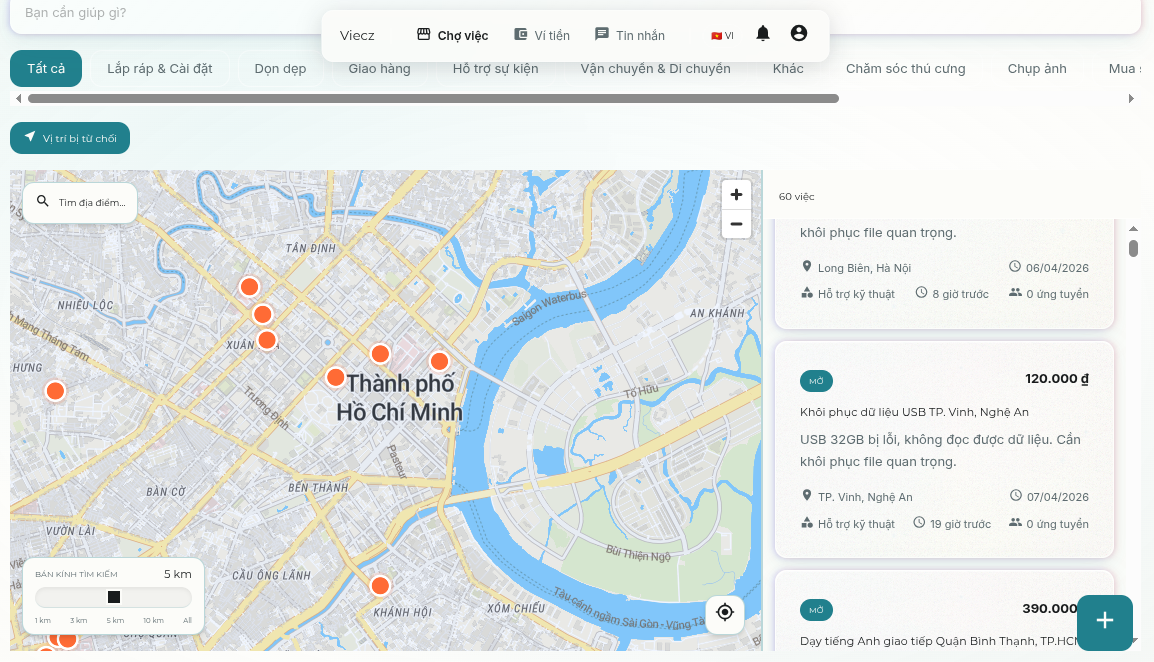
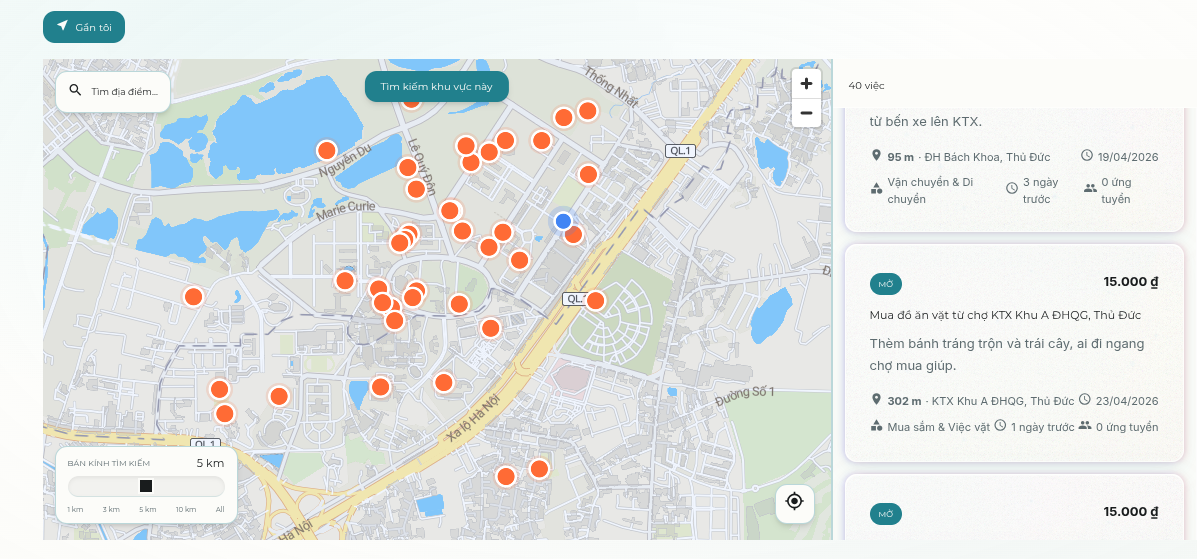
feat(seed): localize seed data to HCMUS campus and Thủ Đức area
Replace nationwide locations with ~20 HCMUS/university village spots,
rewrite task templates to reflect student life scenarios with realistic
student-budget pricing. Add server binary docs to CLAUDE.md.

diff --git a/server/internal/database/seed.go b/server/internal/database/seed.go
@@ -186,52 +186,35 @@ type location struct {
 	lng  float64
 }
 
-// locations returns ~35 real Vietnamese locations with coordinates.
-// Distribution: ~40% HCMC, ~25% Hanoi, ~10% Da Nang, ~25% other cities.
+// locations returns ~20 locations focused on HCMUS campus and Làng Đại học Thủ Đức.
 func locations() []location {
 	return []location{
-		// TP.HCM — 14 locations
-		{"Quận 1, TP.HCM", 10.7769, 106.7009},
-		{"Quận 2, TP.HCM", 10.7869, 106.7499},
-		{"Quận 3, TP.HCM", 10.7840, 106.6919},
-		{"Quận 4, TP.HCM", 10.7579, 106.7039},
-		{"Quận 5, TP.HCM", 10.7559, 106.6689},
-		{"Quận 7, TP.HCM", 10.7350, 106.7180},
-		{"Quận 10, TP.HCM", 10.7749, 106.6680},
-		{"Quận Bình Thạnh, TP.HCM", 10.8109, 106.7110},
-		{"Quận Phú Nhuận, TP.HCM", 10.7999, 106.6800},
-		{"Quận Gò Vấp, TP.HCM", 10.8380, 106.6500},
-		{"Quận Tân Bình, TP.HCM", 10.8010, 106.6490},
-		{"TP. Thủ Đức, TP.HCM", 10.8500, 106.7700},
-		{"Quận 12, TP.HCM", 10.8671, 106.6413},
-		{"Huyện Nhà Bè, TP.HCM", 10.6940, 106.7040},
+		// ĐHKHTN (HCMUS) campus — Linh Trung, Thủ Đức
+		{"Cổng trước ĐHKHTN, Thủ Đức", 10.8628, 106.7590},
+		{"Thư viện ĐHKHTN, Thủ Đức", 10.8621, 106.7601},
+		{"Nhà A ĐHKHTN, Thủ Đức", 10.8635, 106.7605},
+		{"Căn tin ĐHKHTN, Thủ Đức", 10.8618, 106.7612},
+		{"Sân bóng ĐHKHTN, Thủ Đức", 10.8642, 106.7618},
 
-		// Hà Nội — 9 locations
-		{"Hoàn Kiếm, Hà Nội", 21.0285, 105.8542},
-		{"Đống Đa, Hà Nội", 21.0152, 105.8324},
-		{"Cầu Giấy, Hà Nội", 21.0313, 105.7998},
-		{"Thanh Xuân, Hà Nội", 20.9933, 105.8094},
-		{"Hai Bà Trưng, Hà Nội", 21.0110, 105.8563},
-		{"Ba Đình, Hà Nội", 21.0340, 105.8194},
-		{"Nam Từ Liêm, Hà Nội", 21.0183, 105.7623},
-		{"Long Biên, Hà Nội", 21.0470, 105.8886},
-		{"Hoàng Mai, Hà Nội", 20.9804, 105.8593},
+		// KTX Khu A & B — ĐHQG-HCM
+		{"KTX Khu A ĐHQG, Thủ Đức", 10.8789, 106.8064},
+		{"KTX Khu B ĐHQG, Thủ Đức", 10.8752, 106.8010},
 
-		// Đà Nẵng — 4 locations
-		{"Hải Châu, Đà Nẵng", 16.0678, 108.2208},
-		{"Thanh Khê, Đà Nẵng", 16.0748, 108.1888},
-		{"Sơn Trà, Đà Nẵng", 16.1030, 108.2500},
-		{"Liên Chiểu, Đà Nẵng", 16.0720, 108.1500},
+		// Làng Đại học Thủ Đức — neighboring universities
+		{"ĐH Bách Khoa, Thủ Đức", 10.8804, 106.8057},
+		{"ĐH KHXH&NV, Thủ Đức", 10.8776, 106.8020},
+		{"ĐH Quốc tế, Thủ Đức", 10.8787, 106.8003},
+		{"ĐH Kinh tế-Luật, Thủ Đức", 10.8715, 106.7834},
+		{"ĐH Công nghệ Thông tin, Thủ Đức", 10.8700, 106.8030},
+		{"ĐH Nông Lâm, Thủ Đức", 10.8718, 106.7930},
 
-		// Other cities — 8 locations
-		{"TP. Huế, Thừa Thiên Huế", 16.4637, 107.5909},
-		{"Ninh Kiều, Cần Thơ", 10.0452, 105.7469},
-		{"Nha Trang, Khánh Hòa", 12.2388, 109.1967},
-		{"TP. Đà Lạt, Lâm Đồng", 11.9404, 108.4583},
-		{"TP. Biên Hòa, Đồng Nai", 10.9574, 106.8426},
-		{"TP. Vũng Tàu, Bà Rịa-Vũng Tàu", 10.3460, 107.0843},
-		{"TP. Thái Nguyên, Thái Nguyên", 21.5928, 105.8442},
-		{"TP. Vinh, Nghệ An", 18.6796, 105.6813},
+		// Khu vực xung quanh — nhà trọ, quán ăn
+		{"Đường Tô Vĩnh Diện, Thủ Đức", 10.8560, 106.7560},
+		{"Đường Lê Văn Chí, Thủ Đức", 10.8490, 106.7660},
+		{"Chợ Thủ Đức, Thủ Đức", 10.8480, 106.7530},
+		{"Gigamall Thủ Đức", 10.8430, 106.7720},
+		{"Phòng trọ Linh Trung, Thủ Đức", 10.8580, 106.7640},
+		{"Phòng trọ Linh Chiểu, Thủ Đức", 10.8520, 106.7580},
 	}
 }
 
@@ -247,71 +230,71 @@ type taskTemplate struct {
 
 func taskTemplates() []taskTemplate {
 	return []taskTemplate{
-		// 0: Moving & Transport
-		{0, "Chuyển đồ phòng trọ ở %s", "Cần người giúp chuyển đồ từ phòng trọ, khoảng 8-10 thùng carton. Có thang máy.", 150_000, 300_000},
-		{0, "Chuyển nhà nhỏ tại %s", "Dọn đồ căn phòng 20m2, cần 1-2 người khỏe. Tầng 3 không thang máy.", 200_000, 400_000},
-		{0, "Vận chuyển bàn ghế %s", "Cần chở 1 bàn làm việc và 2 ghế từ cửa hàng về nhà, khoảng 3km.", 100_000, 200_000},
-		{0, "Chuyển đồ ký túc xá %s", "Chuyển đồ từ KTX sang phòng trọ mới, khoảng 5 thùng và 1 xe đạp.", 120_000, 250_000},
+		// 0: Moving & Transport — student KTX scenarios
+		{0, "Khiêng kệ sách lên tầng 5 KTX %s", "Kệ sách ở tầng trệt, phòng ở tầng 5. Không thang máy. Cần 1 người khỏe phụ.", 30_000, 60_000},
+		{0, "Chuyển đồ từ KTX sang trọ %s", "Hết hạn KTX, cần chuyển 4 thùng carton và 1 xe đạp sang phòng trọ gần đó.", 80_000, 150_000},
+		{0, "Phụ khiêng tủ quần áo %s", "Mới mua tủ nhựa lắp ghép, cần 1 bạn phụ khiêng từ xe lên phòng tầng 3.", 30_000, 50_000},
+		{0, "Chở đồ từ nhà lên KTX %s", "Đầu học kỳ, cần bạn có xe máy chở 2 thùng đồ từ bến xe lên KTX.", 50_000, 100_000},
 
-		// 1: Delivery
-		{1, "Giao hàng gấp tại %s", "Giao 1 gói hàng nhỏ (dưới 5kg) trong vòng 1 tiếng. Cần có xe máy.", 30_000, 80_000},
-		{1, "Ship đồ ăn %s", "Mua và giao đồ ăn từ quán đến nhà, khoảng 2km. Cần giao nhanh.", 25_000, 50_000},
-		{1, "Giao tài liệu tại %s", "Giao 1 phong bì tài liệu quan trọng, cần giao tận tay và xác nhận.", 40_000, 70_000},
-		{1, "Giao hàng online %s", "Giao 3 đơn hàng cho shop, mỗi đơn dưới 2kg. Khu vực nội thành.", 50_000, 120_000},
+		// 1: Delivery — food & campus errands
+		{1, "Mua cơm hộp mang lên thư viện %s", "Đang ôn thi không muốn mất chỗ, cần bạn mua 1 phần cơm gà từ căn tin.", 15_000, 25_000},
+		{1, "Ship trà sữa từ Highlands %s", "Nhóm 4 đứa ôn bài, cần 1 bạn chạy mua 4 ly trà sữa Highlands gần cổng.", 20_000, 30_000},
+		{1, "Mua bánh mì sáng %s", "Sáng mai thi sớm, cần bạn mua 2 ổ bánh mì trước 6:30 giao phòng KTX.", 10_000, 20_000},
+		{1, "Giao tài liệu in cho bạn %s", "Vừa in xong 50 trang tiểu luận ở tiệm, cần bạn giao tận phòng KTX B.", 15_000, 25_000},
 
 		// 2: Assembly & Installation
-		{2, "Lắp kệ sách IKEA tại %s", "Lắp ráp 2 kệ sách KALLAX, có đầy đủ dụng cụ và hướng dẫn.", 120_000, 200_000},
-		{2, "Lắp giường ngủ mới %s", "Lắp giường gỗ kích thước 1m6, đã có hướng dẫn. Cần mang theo cờ lê.", 150_000, 250_000},
-		{2, "Lắp đặt rèm cửa %s", "Lắp 3 bộ rèm cửa sổ, cần khoan tường. Đã có rèm và phụ kiện.", 100_000, 180_000},
-		{2, "Sửa khóa cửa tại %s", "Khóa cửa phòng bị kẹt, cần thợ đến kiểm tra và sửa hoặc thay mới.", 80_000, 150_000},
+		{2, "Lắp kệ sách nhựa phòng KTX %s", "Mới mua kệ sách nhựa lắp ghép, 5 tầng. Có hướng dẫn nhưng mình vụng tay.", 30_000, 50_000},
+		{2, "Lắp quạt trần phòng trọ %s", "Phòng trọ nóng quá, mua quạt trần rồi nhưng không biết lắp.", 40_000, 70_000},
+		{2, "Sửa ổ khóa cửa phòng %s", "Ổ khóa phòng trọ bị kẹt, xoay không được. Cần bạn biết sửa.", 30_000, 50_000},
+		{2, "Lắp giá phơi đồ ban công %s", "Mua giá phơi đồ inox, cần khoan tường lắp. Ai có máy khoan cho mượn+lắp.", 40_000, 60_000},
 
 		// 3: Cleaning
-		{3, "Dọn dẹp căn hộ tại %s", "Dọn dẹp căn hộ 2 phòng ngủ: lau sàn, dọn bếp, phòng tắm. Khoảng 3 tiếng.", 200_000, 350_000},
-		{3, "Vệ sinh máy lạnh %s", "Vệ sinh 2 máy lạnh treo tường, đã lâu chưa bảo trì.", 150_000, 250_000},
-		{3, "Dọn nhà sau sửa chữa %s", "Dọn dẹp bụi bẩn và rác thải xây dựng sau khi sửa nhà. Cần 2 người.", 300_000, 500_000},
-		{3, "Giặt sofa vải tại %s", "Giặt 1 bộ sofa vải 3 chỗ ngồi, cần mang thiết bị giặt chuyên dụng.", 250_000, 400_000},
+		{3, "Dọn phòng KTX cuối kỳ %s", "Sắp trả phòng KTX, cần dọn sạch sẽ để nộp lại. Khoảng 2 tiếng.", 50_000, 80_000},
+		{3, "Giặt chăn mền lớn %s", "Chăn mền KTX to quá máy giặt không vào, cần bạn phụ mang ra tiệm giặt.", 20_000, 40_000},
+		{3, "Dọn dẹp phòng trọ %s", "Dọn phòng trọ 15m2 trước khi bạn mới dọn vào: lau sàn, rửa toilet.", 40_000, 70_000},
+		{3, "Lau dọn sau tiệc liên hoan %s", "Tối qua tiệc cuối kỳ, phòng bừa bộn. Cần 1 bạn phụ dọn.", 30_000, 50_000},
 
 		// 4: Tutoring & Teaching
-		{4, "Gia sư Toán lớp 12 tại %s", "Cần gia sư ôn thi đại học môn Toán, 3 buổi/tuần, mỗi buổi 2 tiếng.", 300_000, 500_000},
-		{4, "Dạy tiếng Anh giao tiếp %s", "Cần người dạy tiếng Anh giao tiếp cơ bản, 2 buổi/tuần. Trình độ A2.", 200_000, 400_000},
-		{4, "Gia sư Lý-Hóa cấp 3 %s", "Cần gia sư dạy kèm Lý và Hóa cho học sinh lớp 11, chuẩn bị thi cuối kỳ.", 250_000, 450_000},
-		{4, "Dạy guitar cơ bản tại %s", "Muốn học guitar acoustic từ đầu, 1 buổi/tuần, mỗi buổi 1.5 tiếng.", 150_000, 300_000},
+		{4, "Kèm Giải tích 1 trước thi %s", "Thi Giải tích 1 tuần sau, cần bạn giỏi Toán kèm 2-3 buổi tối.", 50_000, 100_000},
+		{4, "Hướng dẫn làm báo cáo thí nghiệm %s", "Chưa biết format báo cáo TN Vật lý, cần bạn khóa trên chỉ.", 30_000, 50_000},
+		{4, "Dạy kèm lập trình C++ %s", "Mới học lập trình, bài tập pointer không hiểu. Cần bạn giải thích 1-2 tiếng.", 50_000, 80_000},
+		{4, "Luyện IELTS Speaking %s", "Cần partner luyện Speaking, mình đang 5.5 muốn lên 6.5. 1 buổi/tuần.", 40_000, 70_000},
 
 		// 5: Tech Support
-		{5, "Sửa laptop bị chậm tại %s", "Laptop chạy chậm, cần cài lại Windows, diệt virus và tối ưu hệ thống.", 100_000, 200_000},
-		{5, "Cài đặt máy in %s", "Cài đặt và kết nối máy in mới với laptop qua WiFi. Máy in Canon.", 50_000, 100_000},
-		{5, "Sửa WiFi không vào được %s", "Router WiFi bị lỗi, đèn nhấp nháy liên tục. Cần người đến kiểm tra.", 80_000, 150_000},
-		{5, "Khôi phục dữ liệu USB %s", "USB 32GB bị lỗi, không đọc được dữ liệu. Cần khôi phục file quan trọng.", 100_000, 250_000},
+		{5, "Cài lại laptop bị chậm %s", "Laptop lag quá, cần cài lại Windows và backup dữ liệu. Mình đang bận ôn thi.", 50_000, 80_000},
+		{5, "Fix lỗi code bài tập lớn %s", "Bài tập lớn OOP bị lỗi segfault, deadline ngày mai. Cần bạn rành C++ giúp.", 50_000, 100_000},
+		{5, "Sửa WiFi phòng trọ %s", "Router phòng trọ bị reset, không biết cài lại. Cần bạn biết mạng.", 30_000, 50_000},
+		{5, "Dán kính cường lực điện thoại %s", "Mới mua miếng dán, dán bị bọt khí. Bạn nào dán giỏi giúp mình.", 10_000, 20_000},
 
 		// 6: Event Help
-		{6, "Phụ trang trí sinh nhật %s", "Cần 1-2 người phụ trang trí và phục vụ tiệc sinh nhật 20 khách.", 200_000, 400_000},
-		{6, "Hỗ trợ sự kiện CLB %s", "Cần người phụ setup bàn ghế, âm thanh và dọn dẹp sau sự kiện CLB.", 150_000, 300_000},
-		{6, "MC dẫn chương trình %s", "Cần MC cho buổi giao lưu sinh viên, khoảng 50 người, thời lượng 2 tiếng.", 300_000, 600_000},
-		{6, "Quay video sự kiện tại %s", "Quay và chỉnh sửa video highlight cho sự kiện từ thiện, 3 tiếng quay.", 400_000, 800_000},
+		{6, "Phụ setup sự kiện CLB %s", "CLB tổ chức workshop, cần 2 bạn phụ kê bàn ghế và treo banner.", 40_000, 70_000},
+		{6, "Phụ trang trí sinh nhật %s", "Tổ chức sinh nhật bạn ở phòng KTX, cần 1 bạn phụ thổi bóng, dán chữ.", 30_000, 50_000},
+		{6, "Quay video TikTok cho CLB %s", "CLB cần quay 1 video ngắn giới thiệu sự kiện, ai có điện thoại quay ổn.", 50_000, 80_000},
+		{6, "Phụ bán sticker ngày hội %s", "Ngày hội CLB cần 1 bạn phụ bán sticker và giữ booth 3 tiếng.", 40_000, 60_000},
 
 		// 7: Shopping & Errands
-		{7, "Mua đồ ăn chợ %s", "Mua danh sách đồ ăn từ chợ (rau, thịt, gia vị) và giao về nhà.", 50_000, 100_000},
-		{7, "Xếp hàng mua vé tại %s", "Cần người xếp hàng mua 2 vé concert, dự kiến chờ 2-3 tiếng.", 100_000, 200_000},
-		{7, "Đi chợ hoa Tết %s", "Mua 1 cành đào/mai và 3 chậu hoa nhỏ từ chợ hoa, giao về nhà.", 80_000, 150_000},
-		{7, "Mua thuốc và đồ dùng %s", "Mua thuốc theo đơn bác sĩ và vài món đồ dùng cá nhân, giao tận nơi.", 40_000, 80_000},
+		{7, "In tiểu luận gấp %s", "Deadline sáng mai, cần bạn in 30 trang tiểu luận và đóng bìa giúp.", 15_000, 30_000},
+		{7, "Mua đồ ăn vặt từ chợ %s", "Thèm bánh tráng trộn và trái cây, ai đi ngang chợ mua giúp.", 15_000, 25_000},
+		{7, "Mua pin dự phòng gấp %s", "Điện thoại sắp hết pin mà đang ở thư viện, ai có bán/cho mượn.", 10_000, 20_000},
+		{7, "Nộp hồ sơ ở phòng đào tạo %s", "Bận đi làm, cần bạn nộp giúp 1 tờ đơn ở phòng đào tạo trước 16h.", 20_000, 40_000},
 
 		// 8: Pet Care
-		{8, "Trông mèo 3 ngày tại %s", "Đi công tác 3 ngày, cần người đến cho mèo ăn và dọn khay cát mỗi ngày.", 200_000, 350_000},
-		{8, "Dắt chó đi dạo %s", "Cần người dắt chó Golden đi dạo buổi sáng, 30 phút/lần, 5 ngày/tuần.", 150_000, 300_000},
-		{8, "Tắm và cắt lông chó %s", "Tắm và cắt tỉa lông cho chó Poodle, cần mang dụng cụ.", 100_000, 200_000},
-		{8, "Chăm cá cảnh khi đi vắng %s", "Đi du lịch 5 ngày, cần người cho cá ăn và kiểm tra bể cá mỗi ngày.", 100_000, 180_000},
+		{8, "Trông mèo cuối tuần %s", "Về quê 2 ngày, cần bạn qua phòng trọ cho mèo ăn và dọn khay.", 50_000, 80_000},
+		{8, "Dắt chó đi dạo buổi sáng %s", "Mình có tiết sáng, cần bạn dắt chó corgi đi dạo 30 phút quanh KTX.", 20_000, 40_000},
+		{8, "Tắm chó nhỏ %s", "Chó Pomeranian cần tắm, mình không có chỗ rộng. Bạn nào rành giúp.", 30_000, 50_000},
+		{8, "Cho cá ăn khi đi vắng %s", "Đi thực tập 1 tuần, cần bạn qua phòng cho cá ăn mỗi tối.", 30_000, 50_000},
 
 		// 9: Photography
-		{9, "Chụp ảnh sản phẩm tại %s", "Chụp 20 sản phẩm handmade cho shop online, cần nền trắng chuyên nghiệp.", 250_000, 500_000},
-		{9, "Chụp ảnh chân dung %s", "Chụp ảnh profile cá nhân ngoài trời, khoảng 30 tấm, có chỉnh sửa.", 200_000, 400_000},
-		{9, "Chụp ảnh đồ ăn %s", "Chụp ảnh menu 15 món cho quán cà phê mới mở. Cần setup ánh sáng.", 300_000, 600_000},
-		{9, "Chụp ảnh kỷ yếu nhóm %s", "Chụp ảnh kỷ yếu nhóm 10 người, ngoại cảnh, khoảng 2 tiếng.", 400_000, 700_000},
+		{9, "Chụp ảnh thẻ xin việc %s", "Cần chụp ảnh thẻ 3x4 nền trắng gấp, ai có máy ảnh giúp.", 20_000, 40_000},
+		{9, "Chụp ảnh kỷ yếu nhóm %s", "Nhóm 6 bạn muốn chụp ảnh kỷ yếu trong khuôn viên trường.", 80_000, 150_000},
+		{9, "Chụp ảnh sản phẩm cho shop %s", "Bán hàng online, cần chụp 10 sản phẩm handmade nền sạch.", 50_000, 100_000},
+		{9, "Quay video giới thiệu bản thân %s", "Cần quay 1 video 2 phút để nộp hồ sơ thực tập.", 40_000, 70_000},
 
 		// 10: Other
-		{10, "Viết CV tiếng Anh %s", "Cần người giúp viết lại CV bằng tiếng Anh, chuyên ngành IT.", 100_000, 200_000},
-		{10, "Dịch tài liệu Anh-Việt %s", "Dịch 10 trang tài liệu kỹ thuật từ tiếng Anh sang tiếng Việt.", 150_000, 300_000},
-		{10, "Thiết kế poster sự kiện %s", "Thiết kế 1 poster A3 cho sự kiện CLB, có sẵn nội dung và hình ảnh.", 100_000, 250_000},
-		{10, "Nhập liệu Excel %s", "Nhập khoảng 500 dòng dữ liệu từ ảnh chụp vào file Excel.", 80_000, 150_000},
+		{10, "Viết CV xin thực tập %s", "Cần bạn giỏi tiếng Anh giúp viết lại CV cho đẹp, chuyên ngành CNTT.", 30_000, 60_000},
+		{10, "Thiết kế poster CLB %s", "CLB cần 1 poster A4 cho sự kiện tuần sau, có sẵn nội dung.", 40_000, 80_000},
+		{10, "Giúp điền form đăng ký học bổng %s", "Form học bổng dài 5 trang, nhiều câu hỏi tiếng Anh. Cần bạn giúp dịch+điền.", 30_000, 50_000},
+		{10, "Đổi tiền lẻ gấp %s", "Cần đổi 200k thành tiền lẻ 10k, 20k để trả phí photo. Ai có đổi giúp.", 5_000, 10_000},
 	}
 }
 

diff --git a/.claude/rules/dev-commands.md b/.claude/rules/dev-commands.md
@@ -8,7 +8,9 @@ description: Build, test, lint commands
 
 **Capacitor**: `cd mobile && bunx cap sync android` (after building web). `bunx cap add android` to regenerate native project.
 
-**Go**: `go test ./...` | `go run cmd/server/main.go`. Test DB: `docker compose -f docker-compose.testdb.yml up -d` (PG 5433, Meili 7700).
+**Go**: `go test ./...` | Test DB: `docker compose -f docker-compose.testdb.yml up -d` (PG 5433, Meili 7700).
+
+**Local dev server**: `bash -c "set -a && source .env.dev && set +a && go run cmd/testserver/main.go"` — has mocked PayOS, auto-seeding, and bulk Meilisearch indexing. `cmd/server/main.go` is the **production** binary — do NOT use it for local dev.
 
 **Web**: `bunx ng test` (NOT `bunx vitest run`) | `bun run build`
 

diff --git a/CLAUDE.md b/CLAUDE.md
@@ -8,6 +8,12 @@
 
 All rules are in `.claude/rules/` — auto-loaded by Claude Code. Path-scoped rules (server, web) only apply when touching matching files.
 
+## Server Binaries
+
+- **`cmd/testserver/`** — Local dev: mocked PayOS, auto-seeds DB, bulk-indexes Meilisearch after seed
+- **`cmd/server/`** — Production: real PayOS, no seeding, tasks indexed individually via `IndexTask()` on create/update
+- **NEVER add bulk reindex to production startup** — Meilisearch stays in sync via per-task indexing
+
 ## Private Data
 
 - Team PII (names, student IDs, phones) → `team.local.yml` (gitignored via `*.local.yml`)
